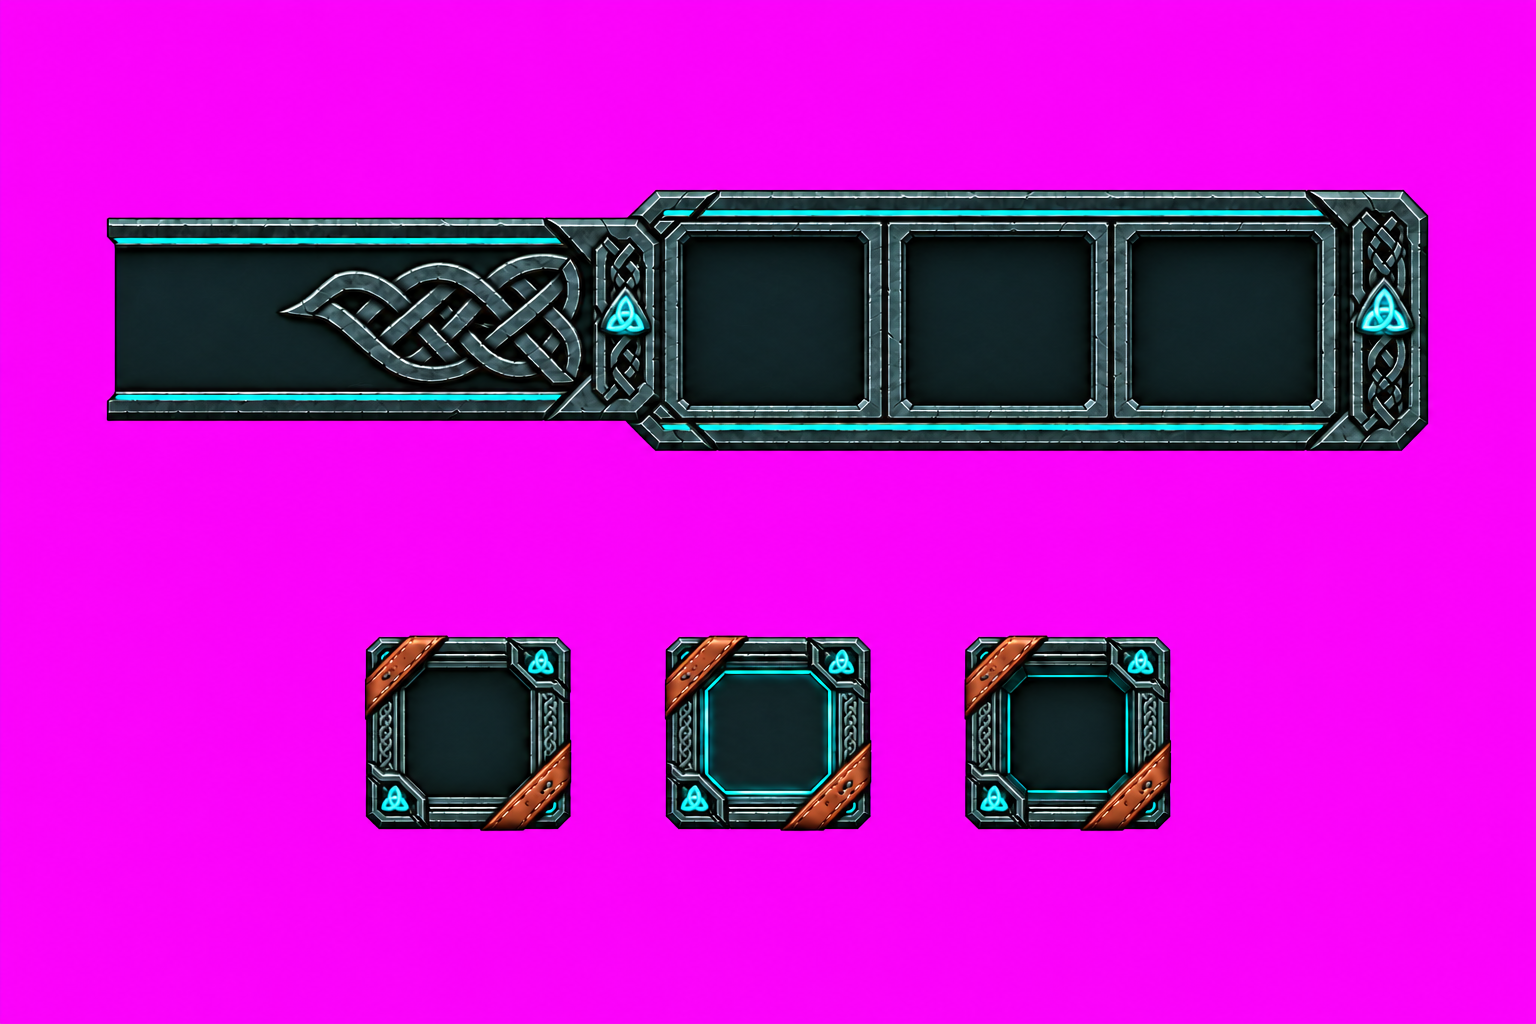
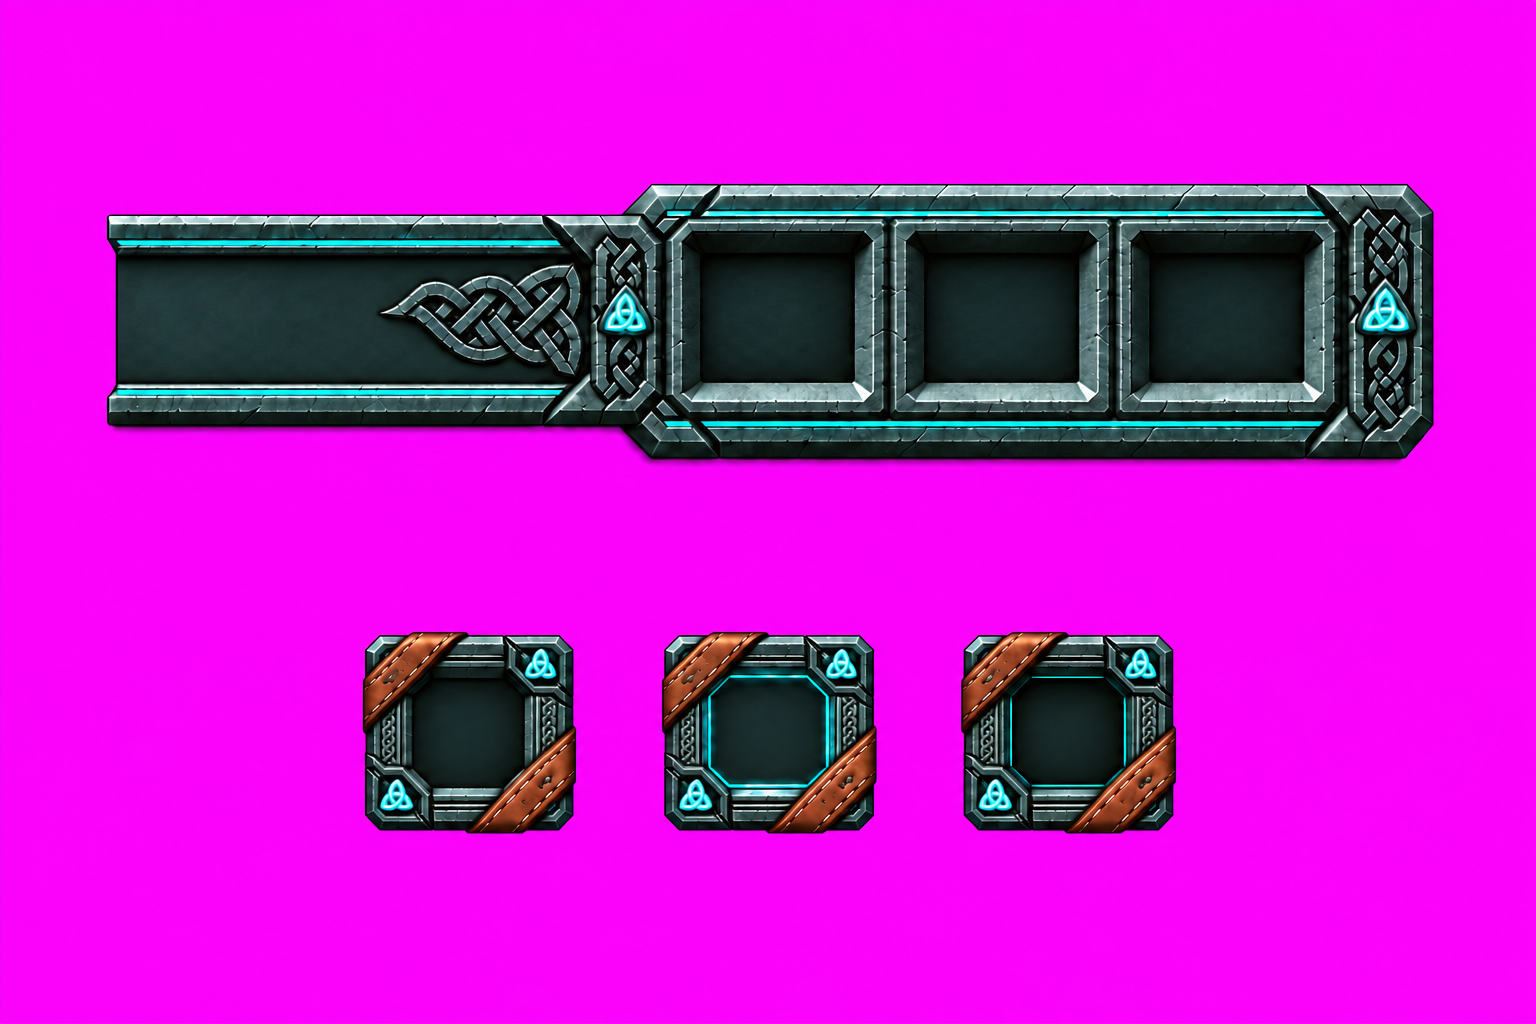
feat(header): plinth sheet v2 - deeper bevel and socket wells, wider straps, narrower terminal knot
Codex review of the 1x render vs the approved plinth-1x mockup: 8 -> 9/10. Left cap rails squashed onto
the plate rails (no double rail at the join), cap fade + share.win.plinth.join over its plain strip part,
plinth stone graded lighter so the bevel reads; height share 1.32 for the new sheet.

diff --git a/art/README.md b/art/README.md
@@ -225,10 +225,11 @@ from B. Codex final: 10 of 10 groups 8/10 (tab_* redraw kept out of scope: share
 - Kit `hdr_plinth.png` (+ prompt): `plinth_cap_left` (plain strip rails, short knot, carved triquetra terminal, plinth wall),
   `plinth_cell` (one per header action, mullion centre to mullion centre, socket inner 182/261 of the height),
   `plinth_cap_right` (= the header's right end cap), `button_hdr_normal/hover/pressed` (approved variant B frame, no glyph).
-  Sheet strip y 218..421 = plate height, plinth y 190..451: height share 1.29 (`share.win.plinth.height`).
-  Stone graded to header_plaque_v2 (`stone` [0.7, 0.62, 0.72] plinth, [0.6, 0.7] buttons).
+  Sheet v2 (deeper bevel, wider straps, narrower terminal; prompt `hdr_plinth_v2.prompt.txt`): strip y 215..425 = plate height,
+  plinth crop y 184..461: height share 1.32 (`share.win.plinth.height`); the left cap's rails squashed onto the plate rails.
+  Stone graded toward header_plaque_v2 (`stone` [0.65, 0.8, 0.75] plinth, cap [0.7, 0.68, 0.75], [0.6, 0.7] buttons).
 - `header_plaque_open` = header_plaque_v2 with the right knot block + end cap replaced by the plain rail columns (`clone`):
   RuneWindowHeader swaps it in while the window has header actions; the plate ends under the left cap's faded strip part
   (`share.win.plinth.join`).
 - Kit `hdr_glyphs.png`: `glyph_act_sort` (now variant B: bars + down triangle), `glyph_act_sort_mode`, `glyph_act_layout`.
-- Review: mockups + final compare in `docs/mockups/header-buttons/integrated/` (Codex 8/10 at 1x).
+- Review: mockups + final compare in `docs/mockups/header-buttons/integrated/` (Codex 9/10 at 1x).

diff --git a/TASKS.md b/TASKS.md
@@ -936,4 +936,4 @@ Pre-existing / foreign (not windows-v2):
 - User: header buttons lay pasted over the plate's right knot. Approved mockup docs/mockups/header-buttons/integrated/plinth-1x.png.
 - RuneWindowHeader.Actions(n): plate swaps to header_plaque_open and ends under plinth_cap_left (terminal), one plinth_cell per action, plinth_cap_right = header end cap (WindowHeaderMath.PlinthLayout, tests); player grid header places its ActionBar in PlinthRow (role action.button.header = button_hdr_* + GlyphStates: hover / pressed glyph cyan, pressed sinks).
 - Glyphs variant B: glyph_act_sort (redrawn), glyph_act_sort_mode (MorgottTweaks sort.mode now passes glyph.action.sort_mode), glyph_act_layout.
-- Offline compare at 1x vs mockup: Codex 7 -> 8/10 (final-compare-*.png). In-game: ui-runeskin-m2 -Checks inv-header-plinth (harness 5c9e167) + visual check pending (lead token).
+- Offline compare at 1x vs mockup: Codex 7 -> 8 -> 9/10 (final-compare-*.png; sheet v2: deeper plinth bevel, wider straps, narrower terminal). In-game: ui-runeskin-m2 -Checks inv-header-plinth (harness 5c9e167) + visual check pending (lead token).
